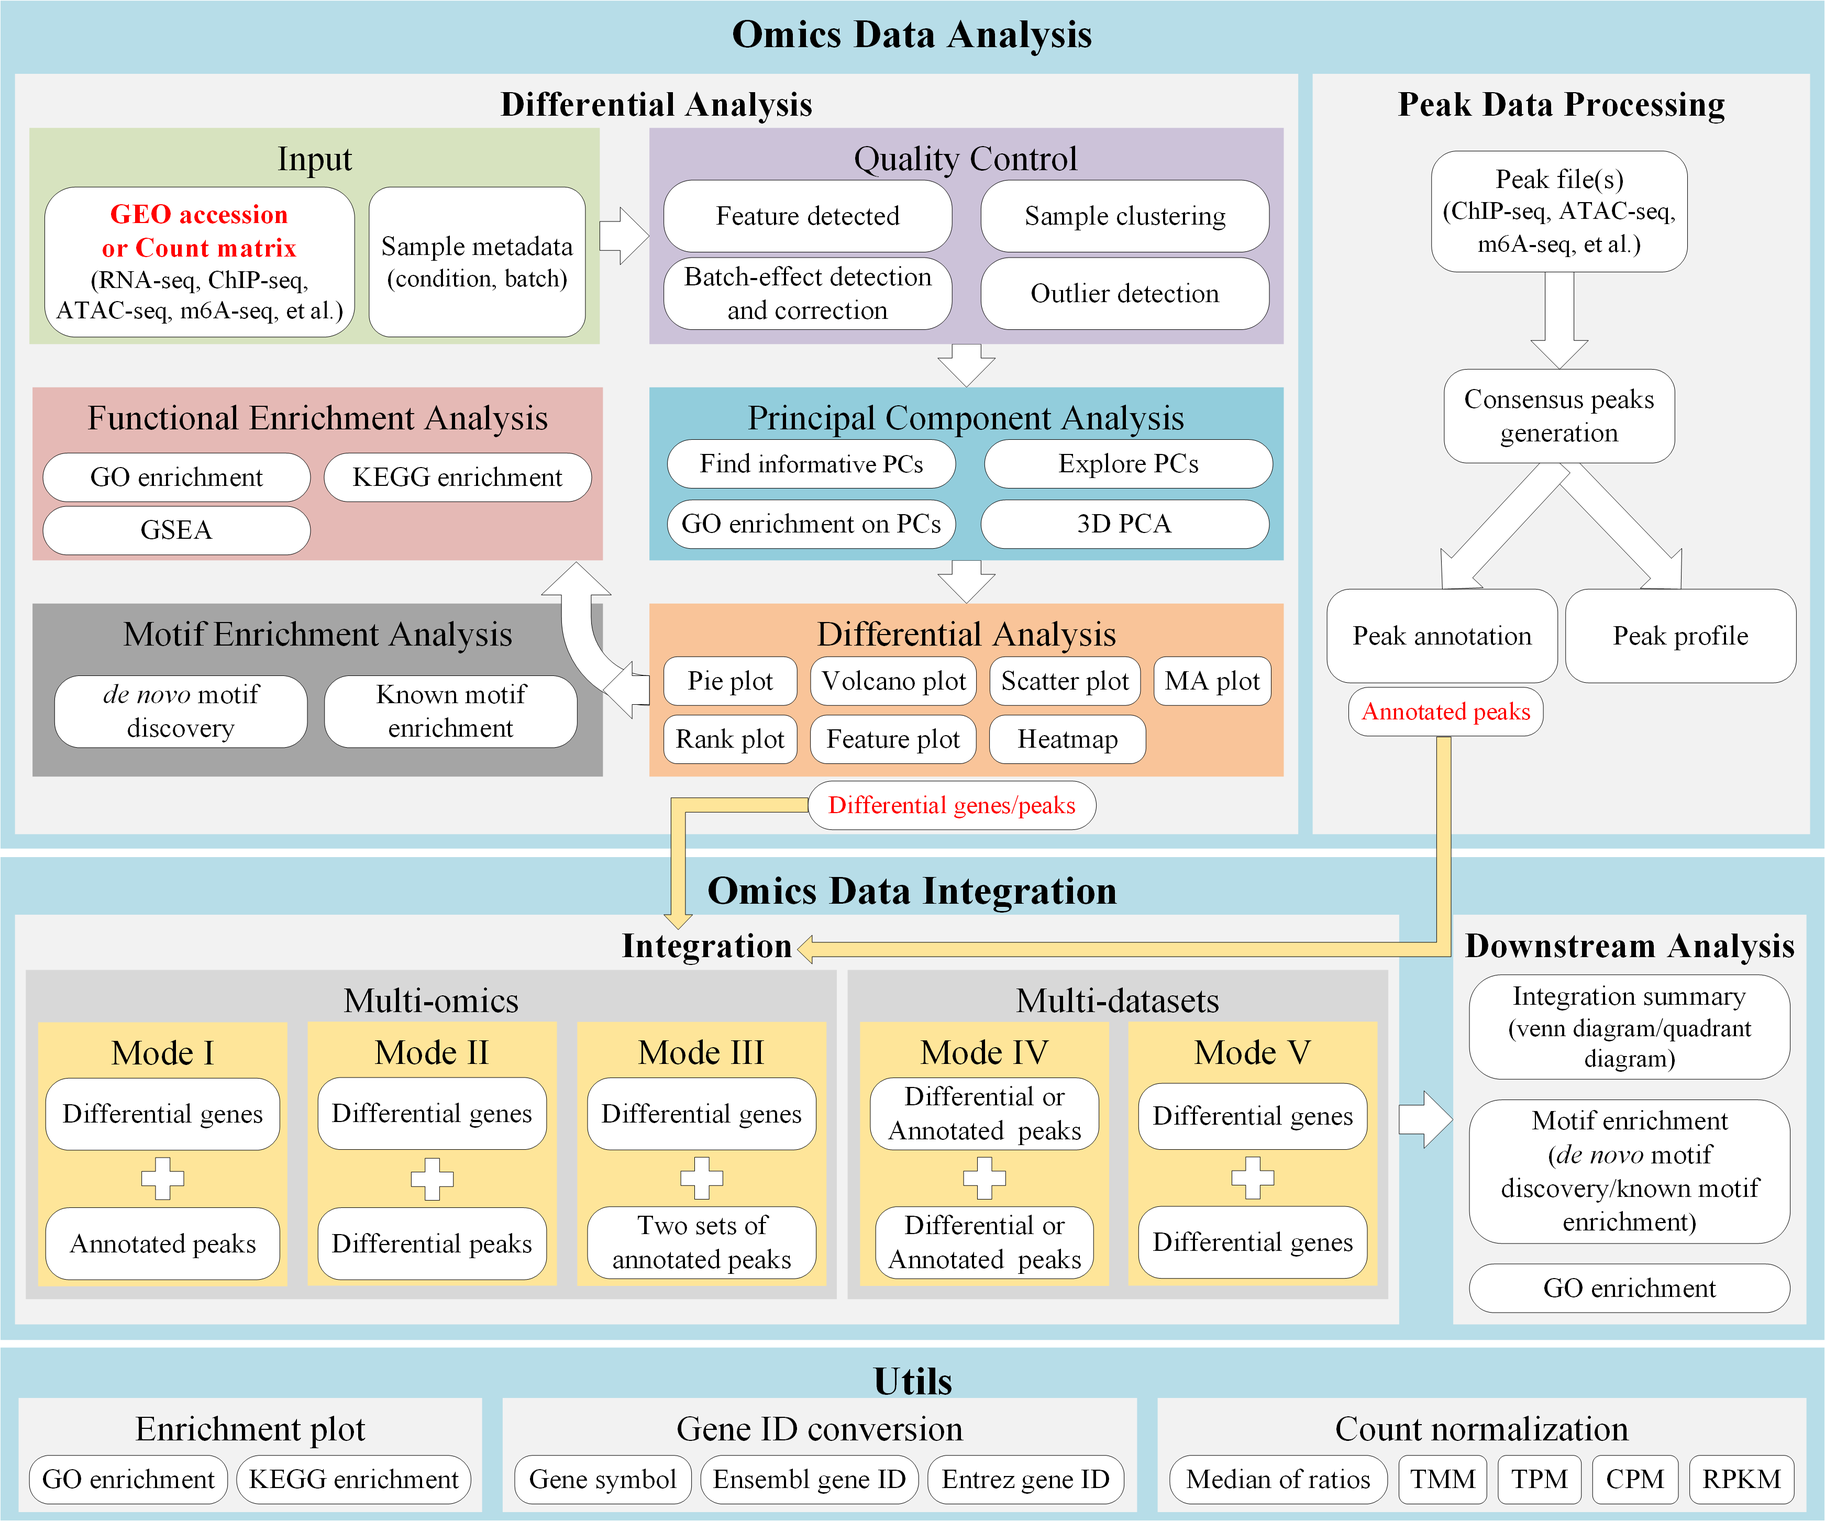
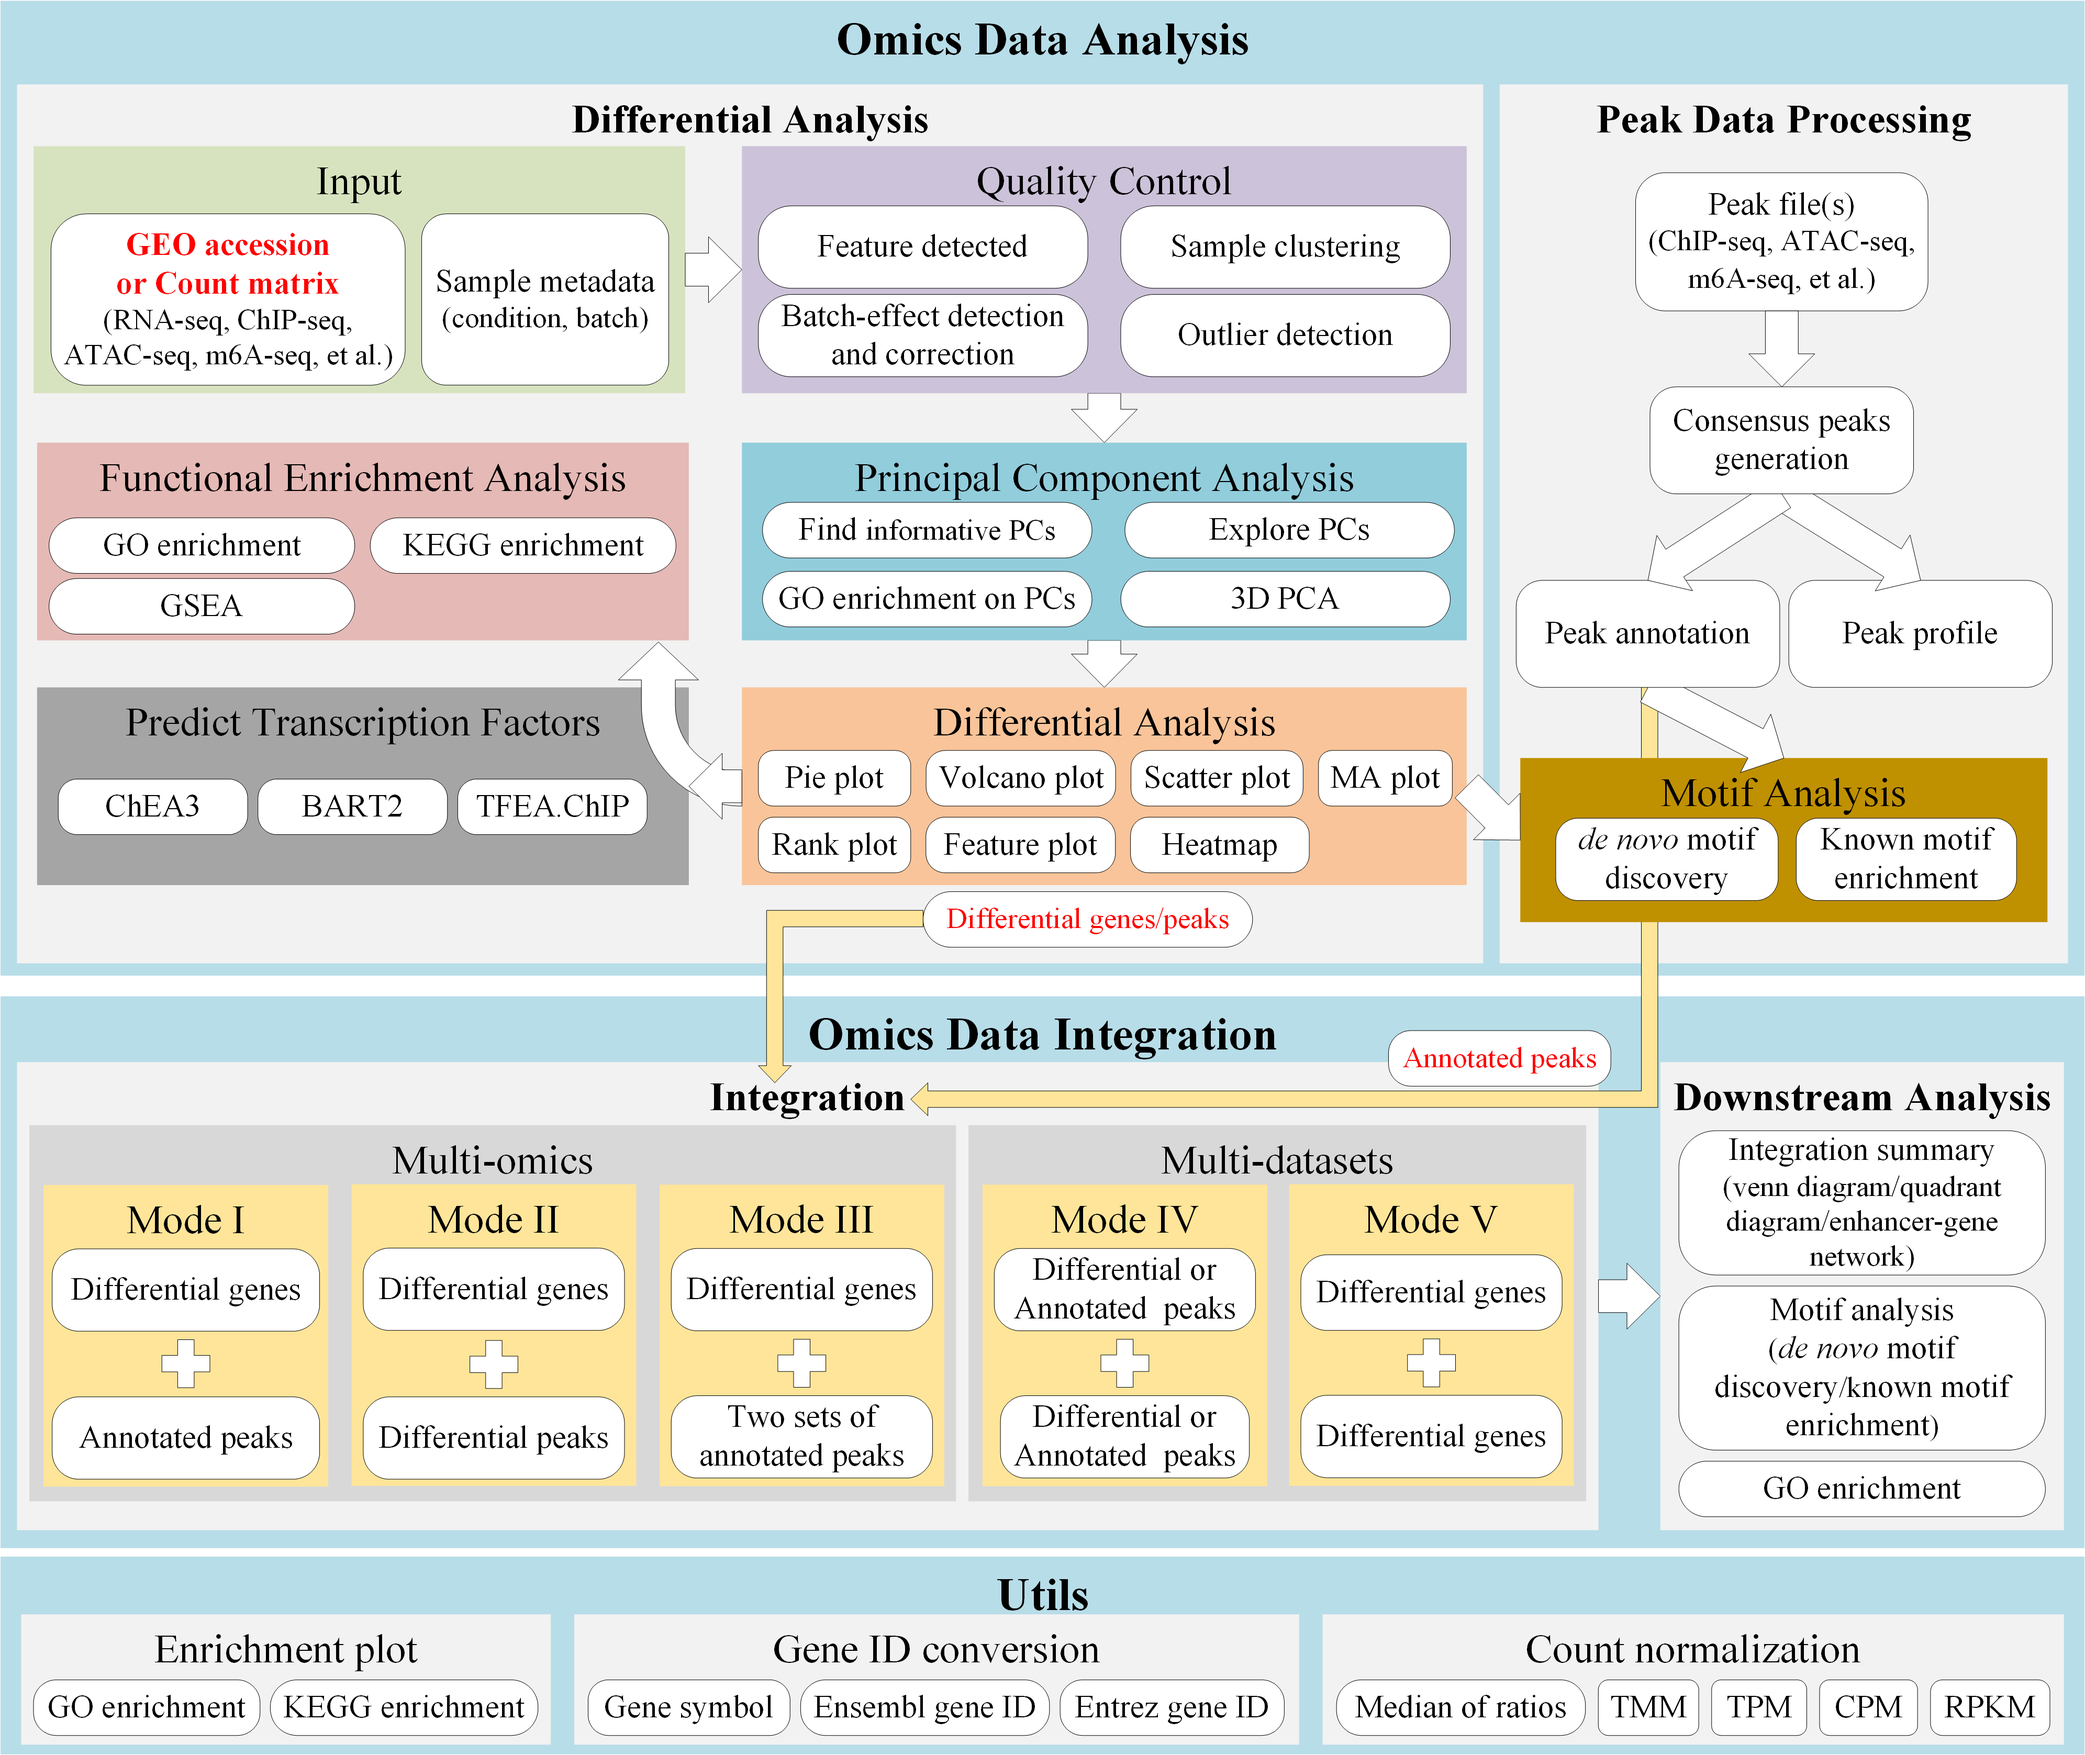
Fix VizRegulator

diff --git a/README.md b/README.md
@@ -6,7 +6,7 @@
 [![CODE\_SIZE](https://img.shields.io/github/languages/code-size/showteeth/DEbPeak.svg)](https://github.com/showteeth/DEbPeak)
 
 ## Introduction
-`DEbPeak` aims to **explore**, **visualize**, **interpret** multi-omics data and **unravel the regulation of gene expression** by combining RNA-seq with peak-related data (eg: ChIP-seq, ATAC-seq, m6a-seq et al.). It contains **ten functional modules**:
+`DEbPeak` aims to **explore**, **visualize**, **interpret** multi-omics data and **unravel the regulation of gene expression** by combining RNA-seq with peak-related data (eg: ChIP-seq, ATAC-seq, m6a-seq et al.). It contains **eleven functional modules**:
 
 * **Parse GEO**: Extract study information, raw count matrix and metadata from GEO database.
 * **Quality Control (QC)**: QC on count matrix and samples. 
@@ -21,6 +21,9 @@
   - GO (Biological Process, Molecular Function, Cellular Component) and KEGG on differential expression genes or accessible/binding peaks.
   - GSEA on all genes (Notice: GSEA is not available for peak-related data)
 * **Predict transcription factors (PredictTFs)**: Identify transcription factors with differentially expressed genes, `DEbPeak` provides three methods ([BART](https://academic.oup.com/bioinformatics/article/34/16/2867/4956015?login=false), [ChEA3](https://www.ncbi.nlm.nih.gov/pmc/articles/PMC6602523) and [TFEA.ChIP](https://academic.oup.com/bioinformatics/article/35/24/5339/5538988)).
+* **Motif analysis**:
+  - *de novo* motif discovery
+  - motif enrichment
 * **Integrate RNA-seq with peak-related data**: 
   - Get consensus peaks: For multiple peak files, get consensus peaks; for single peak file, use it directly (used in consensus integration mode).
   - Peak profile plots: Heatmap of peak binding to TSS regions, Average Profile of ChIP peaks binding to TSS region, Profile of ChIP peaks binding to different regions (used in consensus integration mode).
@@ -74,14 +77,15 @@ Detailed usage is available in [here](https://showteeth.github.io/DEbPeak/). We 
   * [Principal Component Analysis (RNA-seq)](https://showteeth.github.io/DEbPeak/articles/PrincipalComponentAnalysis.html)
   * [Differential Expression Analysis (RNA-seq)](https://showteeth.github.io/DEbPeak/articles/DifferentialExpressionAnalysis.html)
   * [Functional Enrichment Analysis (RNA-seq)](https://showteeth.github.io/DEbPeak/articles/FunctionalEnrichmentAnalysis.html)
+  * [Predict Transcription Factors (RNA-seq)](https://showteeth.github.io/DEbPeak/articles/IdentifyRegulator.html)
   * [Utils](https://showteeth.github.io/DEbPeak/articles/Utils.html)
 
 * For analyzing **peak-related data**:
   * [Quality Control](https://showteeth.github.io/DEbPeak/articles/QualityControl.html)
   * [Principal Component Analysis (Peak-related)](https://showteeth.github.io/DEbPeak/articles/PrincipalComponentAnalysisPeak.html)
-  * [Differential Expression Analysis (Peak-related)](https://showteeth.github.io/DEbPeak/articles/DifferentialExpressionAnalysisPeak.html)
+  * [Differential Analysis (Peak-related)](https://showteeth.github.io/DEbPeak/articles/DifferentialExpressionAnalysisPeak.html)
   * [Functional Enrichment Analysis (Peak-related)](https://showteeth.github.io/DEbPeak/articles/FunctionalEnrichmentAnalysisPeak.html)
-  * [Motif enrichment (Peak-related)](https://showteeth.github.io/DEbPeak/articles/MotifEnrichment.html)
+  * [Motif Analysis (Peak-related)](https://showteeth.github.io/DEbPeak/articles/MotifEnrichment.html)
 
 * **Integrating RNA-seq (differential expression analysis) with peak-related data (consensus peak)**:
   * [Integrate RNA-seq with ChIP-seq (consensus peak)](https://showteeth.github.io/DEbPeak/articles/IntegrateChIP.html)
@@ -90,10 +94,11 @@ Detailed usage is available in [here](https://showteeth.github.io/DEbPeak/). We 
 
 * **Integrating RNA-seq (differential expression analysis) with peak-related data (differential accessible/binding analysis)**:
   * [Integrate RNA-seq with ATAC-seq (differential analysis)](https://showteeth.github.io/DEbPeak/articles/IntegrateATACDE.html)
-  * Integrate RNA-seq with ChIP-seq (differential analysis) is almost the same as [Integrate RNA-seq with ATAC-seq (differential analysis)](https://showteeth.github.io/DEbPeak/articles/IntegrateATACDE.html).
+  * [Integrate RNA-seq with ChIP-seq (differential analysis)](https://showteeth.github.io/DEbPeak/articles/IntegrateChIPDE.html).
 
 
 ### Function list
+
 <table>
 <thead>
   <tr>
@@ -163,7 +168,7 @@ Detailed usage is available in [here](https://showteeth.github.io/DEbPeak/). We 
     <td>plot3D</td>
   </tr>
   <tr>
-    <td rowspan="9">Differential Axpression Analysis</td>
+    <td rowspan="9">Differential Analysis</td>
     <td>ExtractDA</td>
     <td>Extract differential analysis results</td>
     <td>tidyverse</td>
@@ -225,7 +230,34 @@ Detailed usage is available in [here](https://showteeth.github.io/DEbPeak/). We 
     <td>enrichplot</td>
   </tr>
   <tr>
-    <td rowspan="6">Peak-related Analysis<br><br><br><br></td>
+    <td rowspan="2">Predict Transcription Factors</td>
+    <td>InferRegulator</td>
+    <td>Predict TFs&nbsp;&nbsp;&nbsp;from RNA-seq data with ChEA3, BART2 and TFEA.ChIP</td>
+    <td>ChEA3, BART2,&nbsp;&nbsp;&nbsp;TFEA.ChIP</td>
+  </tr>
+  <tr>
+    <td>VizRegulator</td>
+    <td>Visualize the&nbsp;&nbsp;&nbsp;Identified TFs</td>
+    <td>ggplot2</td>
+  </tr>
+  <tr>
+    <td rowspan="3">Motif Analysis</td>
+    <td>MotifEnrich</td>
+    <td>Motif enrichment for differentially accessible/binding peaks</td>
+    <td>HOMER</td>
+  </tr>
+  <tr>
+    <td>MotifDiscovery</td>
+    <td>de novo motif discovery with STREME</td>
+    <td>MEME</td>
+  </tr>
+  <tr>
+    <td>MotifCompare</td>
+    <td>Map motifs against a motif database with Tomtom</td>
+    <td>MEME</td>
+  </tr>
+  <tr>
+    <td rowspan="5">Peak-related Analysis</td>
     <td>PeakMatrix</td>
     <td>Prepare count matrix and sample metadata for peak-related data</td>
     <td>DiffBind, ChIPseeker</td>
@@ -251,40 +283,45 @@ Detailed usage is available in [here](https://showteeth.github.io/DEbPeak/). We 
     <td>ggpie</td>
   </tr>
   <tr>
-    <td>MotifEnrich</td>
-    <td>Motif enrichment for differentially accessible/binding peaks</td>
-    <td>HOMER</td>
-  </tr>
-  <tr>
-    <td rowspan="6">Integrate RNA-seq with Peak-related Data</td>
+    <td rowspan="8">Integrate RNA-seq with Peak-related Data</td>
     <td>DEbPeak</td>
-    <td>Integrate differential expression results and peak annotation/differential analysis results.</td>
+    <td>Integrate differential expression results and peak annotation/differential expression results.</td>
     <td>tidyverse</td>
   </tr>
   <tr>
-    <td>InteVenn</td>
-    <td>Create venn diagram for integration results (support <code>DEbPeak</code>, <code>DEbDE</code>, <code>PeakbPeak</code>)</td>
-    <td>ggvenn</td>
-  </tr>
-  <tr>
-    <td>InteDiffQuad</td>
-    <td>Create quadrant diagram for integration results (support <code>DEbPeak</code>, <code>DEbDE</code>, <code>PeakbPeak</code>)</td>
-    <td>ggplot2</td>
-  </tr>
-  <tr>
-    <td>InteFE</td>
-    <td>GO enrichment on integration results (support <code>DEbPeak</code>, <code>DEbDE</code>, <code>PeakbPeak</code>)</td>
+    <td>DEbPeakFE</td>
+    <td>GO enrichment on integrated results</td>
     <td>clusterProfiler</td>
-  </tr>
-  <tr>
-    <td>FindMotif</td>
-    <td>Find motif on integration results</td>
-    <td>HOMER</td>
   </tr>
   <tr>
     <td>DEbCA</td>
     <td>Integrate differential expression results and peak annotation results (two kinds of peak-related data)</td>
     <td>tidyverse</td>
+  </tr>
+  <tr>
+    <td>ProcessEnhancer</td>
+    <td>Get genes near differential peaks</td>
+    <td>IRanges</td>
+  </tr>
+  <tr>
+    <td>InteVenn</td>
+    <td>Create a Venn   diagram for integrated results (support DEbPeak, DEbDE, PeakbPeak)</td>
+    <td>ggvenn</td>
+  </tr>
+  <tr>
+    <td>InteDiffQuad</td>
+    <td>Create quadrant diagram for differential expression analysis of RNA-seq and peak-related data</td>
+    <td>ggplot2</td>
+  </tr>
+  <tr>
+    <td>NetViz</td>
+    <td>Visualize&nbsp;&nbsp;&nbsp;enhancer-gene network results</td>
+    <td>igraph,&nbsp;&nbsp;&nbsp;ggnetwork</td>
+  </tr>
+  <tr>
+    <td>FindMotif</td>
+    <td>Find motif on integrated results</td>
+    <td>HOMER</td>
   </tr>
   <tr>
     <td rowspan="2">Integrate RNA-seq with RNA-seq</td>
@@ -309,9 +346,9 @@ Detailed usage is available in [here](https://showteeth.github.io/DEbPeak/). We 
     <td>clusterProfiler</td>
   </tr>
   <tr>
-    <td rowspan="4">Utils</td>
+    <td rowspan="4">Utils<br><br></td>
     <td>EnrichPlot</td>
-    <td>Create bar or dot plot for selected functional enrichment analysis results (GO and KEGG)</td>
+    <td>Create a bar or&nbsp;&nbsp;&nbsp;dot plot for selected functional enrichment analysis results (GO and KEGG)</td>
     <td>ggplot2</td>
   </tr>
   <tr>

diff --git a/NEWS.md b/NEWS.md
@@ -7,6 +7,7 @@
 * Added `show.html` to `MotifDiscovery` and `MotifCompare` to control the pop-up window.
 * Fixed bug in `InferRegulator`.
 * Fixed bug in `DEbCA` (output ChIP-seq and ATAC-seq peak information).
+* Add `Rank` column to TFs obtained with `BART2`.
 
 -------------
 
